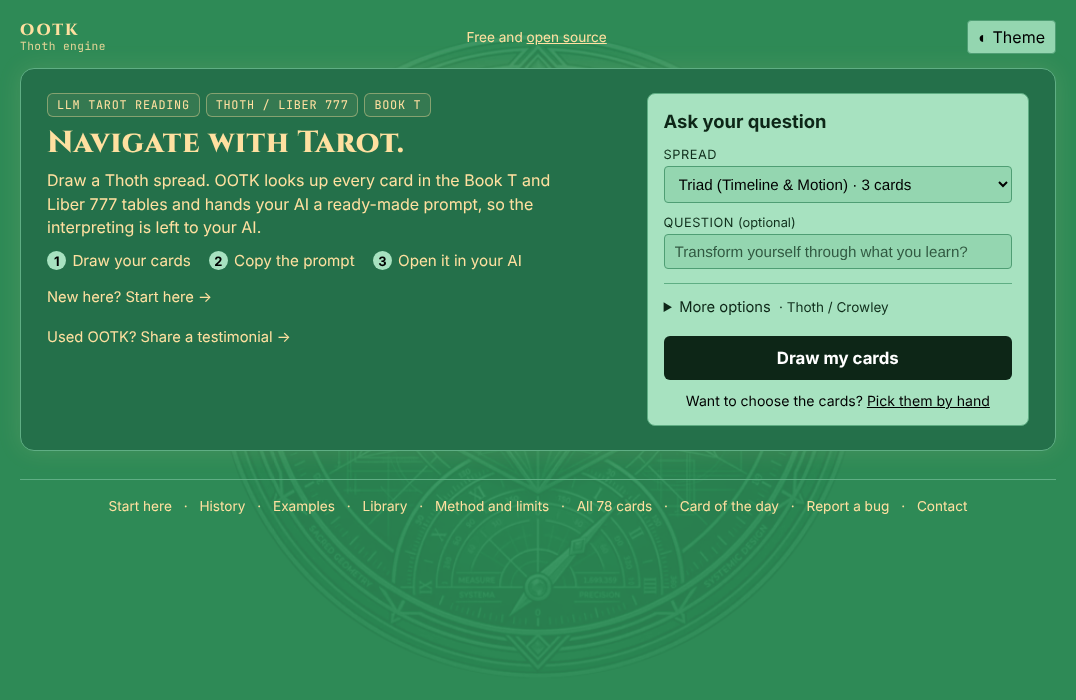
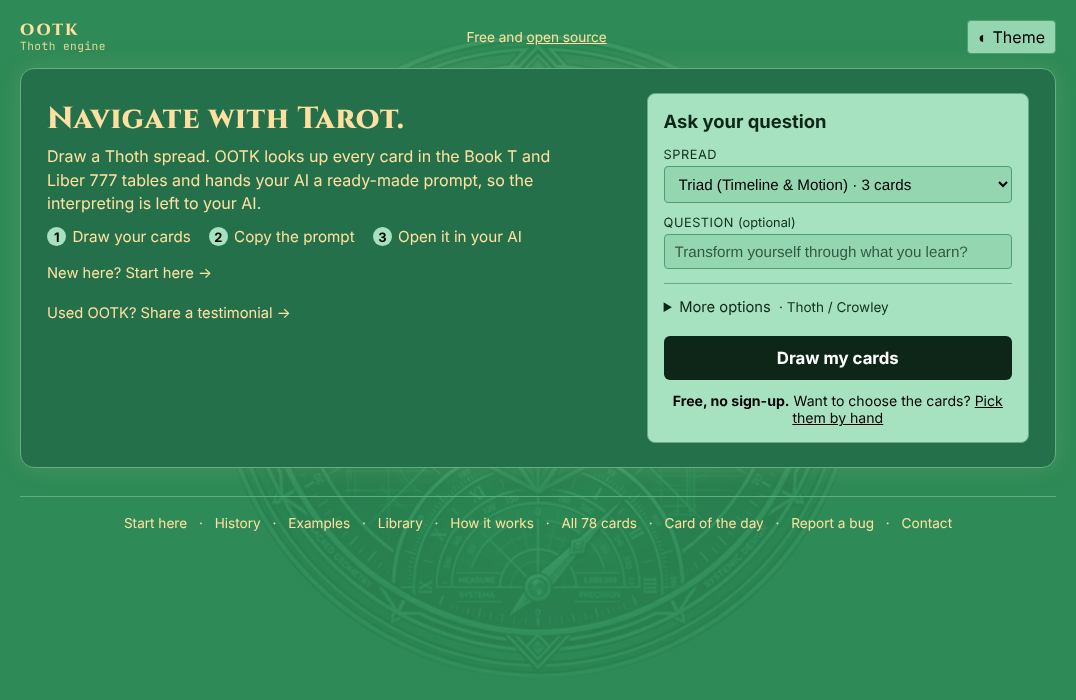
Warmer wording, a clear price and a lighter report header
Say once that the AI interprets, not seven times; Method opens in the
owner's voice; 'Method and limits' becomes 'How it works'. Front page
says 'Free, no sign-up.' by the button and drops the jargon chips.
Report header keeps Copy and open as the one big button, with copy and
save options under More and the attach-as-file tip on one line.

Claude-Session: https://claude.ai/code/session_01LUs8KwBZZ39rW2dYkRJ5Sp

Changed region(s): [[0.0307, 0.12, 0.5214, 0.51], [0.0, 0.57, 0.9814, 0.69], [0.092, 0.72, 0.8894, 0.78]]

diff --git a/templates/report.html b/templates/report.html
@@ -50,8 +50,8 @@
         details.menu { position: relative; }
         details.menu > summary { list-style: none; }
         details.menu > summary::-webkit-details-marker { display: none; }
-        .menu-list { position: absolute; z-index: 30; top: calc(100% + 4px); right: 0; min-width: 150px; background: var(--panel); border: 1px solid var(--line); border-radius: 8px; box-shadow: 0 6px 18px rgba(0,0,0,0.2); padding: 4px; display: flex; flex-direction: column; }
-        .menu-list button { background: none; border: none; color: var(--text); text-align: left; padding: 9px 12px; border-radius: 6px; cursor: pointer; font: inherit; font-size: 0.9em; }
+        .menu-list { position: absolute; z-index: 30; top: calc(100% + 4px); right: 0; min-width: 190px; background: var(--panel); border: 1px solid var(--line); border-radius: 8px; box-shadow: 0 6px 18px rgba(0,0,0,0.2); padding: 4px; display: flex; flex-direction: column; }
+        .menu-list button { background: none; border: none; color: var(--text); text-align: left; white-space: nowrap; padding: 9px 12px; border-radius: 6px; cursor: pointer; font: inherit; font-size: 0.9em; }
         .menu-list button:hover { background: var(--panel-2); }
         details.types > summary { list-style: none; display: inline-block; }
         details.types > summary::-webkit-details-marker { display: none; }
@@ -80,8 +80,8 @@
         .report-actions .send-llm { flex-direction: column; }
         .report-actions .send-llm .btn { flex: 1; padding: 11px 16px; font-size: 1em; }
         .action-row { display: flex; flex-wrap: wrap; gap: 8px; margin-top: 10px; }
-        .md-tip { margin-top: 14px; padding-top: 12px; border-top: 1px solid var(--line); }
-        .md-tip p { margin: 0 0 10px; font-size: 0.9em; }
+        .md-tip { margin: 12px 0 0; font-size: 0.9em; }
+        .link-btn { background: none; border: none; padding: 0; color: var(--accent); cursor: pointer; text-decoration: underline; font: inherit; }
         .btn-small { background: var(--panel-2); color: var(--text); border: 1px solid var(--control); padding: 6px 10px; border-radius: 4px; cursor: pointer; white-space: nowrap; font: inherit; }
         .btn-small:hover { border-color: var(--accent); }
         .steps-done { list-style: none; display: flex; flex-wrap: wrap; gap: 6px 18px; margin: 0; padding: 0; font-size: 0.9em; counter-reset: step; }
@@ -298,21 +298,18 @@
             <p class="form-lede">Copy and open copies the prompt and opens your AI in a new tab. Paste it in there.</p>
             {% with prompt_source = "promptText", llm_note_elsewhere = true %}{% include "_send_to_llm.html" %}{% endwith %}
             <div class="action-row">
-                <button class="btn secondary" type="button" id="copyPromptTop" onclick="copyText(document.getElementById('promptText').textContent, this, 'promptText')" title="Copy the prompt, then paste it into your AI">Copy prompt</button>
                 <details class="menu">
-                    <summary class="btn secondary">Save &#9662;</summary>
+                    <summary class="btn secondary">More &#9662;</summary>
                     <div class="menu-list">
-                        <button type="button" onclick="window.print()">PDF (print)</button>
-                        <button type="button" data-download-md>Markdown</button>
-                        <button type="button" data-download-json{% if json_url %} data-json-url="{{ json_url }}"{% endif %}>JSON</button>
+                        <button type="button" id="copyPromptTop" onclick="copyText(document.getElementById('promptText').textContent, this, 'promptText')" title="Copy the prompt, then paste it into your AI">Copy prompt</button>
+                        <button type="button" data-download-md>Save as Markdown (.md)</button>
+                        <button type="button" onclick="window.print()">Save as PDF (print)</button>
+                        <button type="button" data-download-json{% if json_url %} data-json-url="{{ json_url }}"{% endif %}>Save as JSON</button>
                     </div>
                 </details>
                 <a href="{{ '/pick' if settings.get('draw_mode') == 'manual' else '/' }}" class="btn secondary" title="Back to settings">&larr; New reading</a>
             </div>
-            <div class="md-tip" id="mdTip">
-                <p><strong>Our tip: attach it as a file.</strong> Save the prompt as a Markdown file, then in your AI chat (Gemini, Claude, ChatGPT and others) press <strong>+</strong>, add the file and send. A file gets round the limits many AI chats put on pasted text, so it suits long readings and Gemini.</p>
-                <button class="btn secondary" type="button" data-download-md title="Download the prompt as ootk_report.md">Save prompt as Markdown (.md)</button>
-            </div>
+            <p class="md-tip" id="mdTip">Long prompt? <button type="button" class="link-btn" data-download-md title="Download the prompt as ootk_report.md">Save it as a file</button> and attach it in your AI with <strong>+</strong>.</p>
         </div>
         <div class="band-more">
             <ol class="steps-done no-print" aria-label="Your progress">
@@ -320,7 +317,7 @@
                 <li class="here">Copy the prompt</li>
                 <li>Paste or attach it in your AI</li>
             </ol>
-            <p class="tagline no-print">Your AI writes the interpretation; this page only shows what the prompt contains. <a href="#promptSection" onclick="openSection('promptSection')">See the prompt</a></p>
+            <p class="tagline no-print"><a href="#promptSection" onclick="openSection('promptSection')">See the prompt</a></p>
             <p class="tagline left-out no-print">{% include "_llm_left_out.html" %}</p>
         </div>
     </section>

diff --git a/templates/start.html b/templates/start.html
@@ -31,12 +31,11 @@
 {% block content %}
         <details class="panel fold">
             <summary class="fold-toggle"><h2 id="strengthsTitle">What OOTK does best</h2></summary>
-            <p>Its strengths are objective analysis and clear conceptual models.</p>
+            <p>It takes care of the bookkeeping, so you can spend your time on the cards.</p>
             <ul>
-                <li><strong>Objective analysis.</strong> Each card's dignities, aspects and correspondences come from the Book&nbsp;T and Liber&nbsp;777 tables and are scored the same way every time, so the same seed always gives the same figures.</li>
-                <li><strong>Clear conceptual models.</strong> The heap, the wheel of houses and signs, and the Cube of Space show where each card sits and how the cards link.</li>
+                <li><strong>Careful lookups.</strong> Each card's dignities, aspects and correspondences come from the Book&nbsp;T and Liber&nbsp;777 tables and are scored the same way every time, so the same seed always gives the same figures.</li>
+                <li><strong>Pictures of the reading.</strong> The heap, the wheel of houses and signs, and the Cube of Space show where each card sits and how the cards link.</li>
             </ul>
-            <p>The meaning is left to your AI.</p>
         </details>
 
         <details class="panel fold" open>
@@ -44,7 +43,7 @@
             <ol class="path">
                 <li>
                     <h3>See what you get</h3>
-                    <p>A reading here is not an interpretation. It is a list of cards, their correspondences and how they interact, written as a prompt for your AI. The sample below is a whole Opening of the Key.</p>
+                    <p>Here is what a reading looks like: every card, its correspondences and how the cards speak to each other, written up for your AI. The sample below is a whole Opening of the Key.</p>
                     <div class="actions">{% if sample %}<a class="btn secondary" href="#sample">See the sample</a> {% endif %}<a class="btn secondary" href="/examples">More examples</a></div>
                 </li>
                 <li>
@@ -63,8 +62,8 @@
                 </li>
                 <li>
                     <h3>Learn what the numbers mean</h3>
-                    <p>The library explains each term in the report, and the method page shows how it is all worked out and where it falls short.</p>
-                    <div class="actions"><a class="btn secondary" href="/library">Library</a> <a class="btn secondary" href="/method">Method and limits</a></div>
+                    <p>The library explains each term in the report, and How it works shows how it is all worked out and what to keep in mind.</p>
+                    <div class="actions"><a class="btn secondary" href="/library">Library</a> <a class="btn secondary" href="/method">How it works</a></div>
                 </li>
             </ol>
         </details>

diff --git a/templates/method.html b/templates/method.html
@@ -1,5 +1,5 @@
 {% extends "_guide_base.html" %}
-{% set page_title = "Method and limits" %}
+{% set page_title = "How it works" %}
 {% set page_description = "How LLM Tarot Reading draws the cards and works out their correspondences, what it can't do, what it stores and what it is for." %}
 {% set tagline = "How a reading is made, what it can't do, and what it is for." %}
 {% set active = "/method" %}
@@ -20,9 +20,9 @@
 {% block content %}
         <section class="panel" aria-labelledby="useTitle">
             <h2 id="useTitle">What it is for</h2>
-            <p>This site is a calculator and a prompt writer. It draws tarot cards, looks up their traditional correspondences, scores how they interact, and writes all of that up as a prompt. <strong>It does not interpret the cards itself.</strong> Your AI does that, from the prompt.</p>
-            <p>It is meant for studying the Thoth deck and its correspondences, for reflection, and for giving an AI the same careful groundwork every time instead of a bare list of card names.</p>
-            <p>It is not meant for decisions about health, money, law or safety, and it does not predict the future. Treat any reading, and anything an AI says about it, as something to think with rather than advice.</p>
+            <p>I made this to do the slow part of a Thoth reading for me: shuffling, looking up every correspondence and scoring how the cards interact. It writes all of that up as a prompt, and your AI does the interpreting.</p>
+            <p>It is for studying the Thoth deck and its correspondences, for reflection, and for giving an AI the same careful groundwork every time instead of a bare list of card names.</p>
+            <p>Please don&rsquo;t use it for decisions about health, money, law or safety. A reading, and whatever an AI makes of it, is something to think with, not advice or a forecast.</p>
         </section>
 
         <section class="panel" aria-labelledby="howTitle">
@@ -57,7 +57,7 @@
         </section>
 
         <section class="panel" aria-labelledby="limitsTitle">
-            <h2 id="limitsTitle">Limitations</h2>
+            <h2 id="limitsTitle">Worth knowing</h2>
             <ul>
                 <li><strong>The interpretation is your AI&rsquo;s, not this site&rsquo;s.</strong> AIs can be wrong, invent details, or answer the same prompt differently each time. Nothing here checks what they say.</li>
                 <li><strong>One tradition among several.</strong> Card attributions differ between systems, which is why there are three to choose from. The dignity scores (+2, +1, &minus;2, 0) and the aspect orbs are this project&rsquo;s reading of Book T and astrological practice, not the only one.</li>

diff --git a/templates/index.html b/templates/index.html
@@ -70,7 +70,6 @@
     <!-- Banner: what it is, for whom and how on the left; the settings for your own reading on the right. -->
     <section class="band" aria-labelledby="pageTitle">
         <div class="band-text">
-            <p class="chips"><span>LLM Tarot Reading</span><span>Thoth / Liber 777</span><span>Book T</span></p>
             <h1 id="pageTitle">Navigate with Tarot.</h1>
             <p class="tagline">Draw a Thoth spread. OOTK looks up every card in the Book&nbsp;T and Liber&nbsp;777 tables and hands your AI a ready-made prompt, so the interpreting is left to your AI.</p>
             <ol class="steps" aria-label="How it works">
@@ -86,7 +85,7 @@
 
 {% include "_settings_fields.html" %}
                 <button type="submit" class="btn-submit">Draw my cards</button>
-                <p class="mode-link">Want to choose the cards? <a href="/pick" id="modeSwitch">Pick them by hand</a></p>
+                <p class="mode-link"><strong>Free, no sign-up.</strong> Want to choose the cards? <a href="/pick" id="modeSwitch">Pick them by hand</a></p>
             </section>
         </form>
         <!-- Below the settings on a phone, so the draw button shows on the first screen. -->

diff --git a/templates/landing.html b/templates/landing.html
@@ -11,7 +11,7 @@
                 <li><strong>Copy the prompt.</strong> The report lists every card&rsquo;s correspondences, dignities and aspects, written up for an AI.</li>
                 <li><strong>Open it in your AI.</strong> Paste it into ChatGPT, Claude, Gemini or another model, which writes the interpretation.</li>
             </ol>
-            <p class="muted">Free, with no sign-up. OOTK does not interpret the cards itself; it gives your AI the facts to work from.</p>
+            <p class="muted">Free, with no sign-up. Your AI brings the interpretation; OOTK makes sure it starts from the right facts.</p>
             <div class="actions">
                 <a class="btn" href="/?spread={{ page.spread }}#readingForm">Draw my cards</a>
                 <a class="btn secondary" href="/examples">See example readings</a>

diff --git a/templates/_guide_base.html b/templates/_guide_base.html
@@ -48,7 +48,7 @@
         <h1>{{ page_title }}</h1>
         <p class="tagline">{{ tagline }}</p>
         <nav class="guide-nav" aria-label="Guide">
-            {% for href, label in [("/start", "Start here"), ("/history", "History"), ("/examples", "Examples"), ("/library", "Library"), ("/maps", "Card maps"), ("/method", "Method and limits")] %}
+            {% for href, label in [("/start", "Start here"), ("/history", "History"), ("/examples", "Examples"), ("/library", "Library"), ("/maps", "Card maps"), ("/method", "How it works")] %}
             <a href="{{ href }}"{% if href == active %} aria-current="page"{% endif %}>{{ label }}</a>
             {% endfor %}
             <a href="/#readingForm" class="guide-draw">Draw a reading</a>

diff --git a/templates/_site_footer.html b/templates/_site_footer.html
@@ -11,7 +11,7 @@
     <a href="/history">History</a> ·
     <a href="/examples">Examples</a> ·
     <a href="/library">Library</a> ·
-    <a href="/method">Method and limits</a> ·
+    <a href="/method">How it works</a> ·
     <a href="/cards">All 78 cards</a> ·
     <a href="/today">Card of the day</a> ·
     <a href="{{ bug_report_url }}" target="_blank" rel="noopener">Report a bug</a> ·

diff --git a/src/ootk/web.py b/src/ootk/web.py
@@ -284,8 +284,8 @@ templates = Jinja2Templates(directory=str(BASE_DIR / "templates"))
 REPO_URL = "https://github.com/hampshirecottage-ai/ootk-thoth-engine"
 BUG_REPORT_URL = f"{REPO_URL}/issues/new?template=bug_report.yml"
 CONTACT_URL = f"{REPO_URL}/discussions"
-SITE_DESCRIPTION = ("Draw a Thoth tarot spread and get its Golden Dawn dignities, decans and "
-                    "Liber 777 correspondences calculated, as a prompt for your LLM to interpret.")
+SITE_DESCRIPTION = ("Draw a Thoth tarot spread. OOTK works out its Golden Dawn dignities, decans "
+                    "and Liber 777 correspondences and writes them up for your AI to read with you.")
 # The spreads from first steps to the full Opening of the Key: (level, name, spread keys, what
 # it teaches). Start here lists them and the spread picker groups its options the same way.
 SPREAD_STAGES = [
@@ -322,7 +322,7 @@ LANDING_PAGES = {
         "tagline": "Your AI interprets the cards. OOTK gives it the facts to work from.",
         "description": "An AI tarot reading with the correspondences done properly: draw your "
                        "cards, copy the prompt into ChatGPT, Claude or Gemini.",
-        "intro": "Chatbots guess at tarot correspondences. OOTK looks every card up in the Golden "
+        "intro": "Chatbots are good with meaning but shaky on correspondences. OOTK looks every card up in the Golden "
                  "Dawn and Liber 777 tables, scores the dignities between them, and writes it all "
                  "into one prompt you paste into ChatGPT, Claude, Gemini or any other AI.",
         "spread": "3"},
@@ -719,7 +719,6 @@ def sample_summary(r, settings):
     if on_cube:
         verb = "sits" if len(on_cube) == 1 else "sit"
         second.append(f"{_count(len(on_cube)).capitalize()} of the heap's cards {verb} on the Cube of Space.")
-    second.append("What it means is left to your AI.")
     return [first, " ".join(second)]
 
 

diff --git a/tests/test_app_and_engine.py b/tests/test_app_and_engine.py
@@ -457,7 +457,7 @@ def test_guide_pages_render_and_link_each_other(client, monkeypatch):
     monkeypatch.setattr(app_module, "_examples_cache", {})
     for path, heading in [("/start", "Your first reading, step by step"), ("/history", "The Golden Dawn"),
                           ("/examples", "Open the report"),
-                          ("/library", "Every spread"), ("/maps", "Pick a card"), ("/method", "Limitations")]:
+                          ("/library", "Every spread"), ("/maps", "Pick a card"), ("/method", "Worth knowing")]:
         page = client.get(path)
         assert page.status_code == 200 and heading in page.text
         assert f'<a href="{path}" aria-current="page">' in page.text      # nav marks this page
@@ -1960,7 +1960,7 @@ def test_sample_summary_states_facts_not_meanings():
     assert "1 Fire, 1 Water and 1 Earth" in second
     assert "Of the 2 scored pairs, 1 is friendly and 1 is contrary, a net score of -1." in second
     assert "One of the heap's cards sits on the Cube of Space." in second
-    assert second.endswith("What it means is left to your AI.")
+    assert second.endswith("sits on the Cube of Space.")
 
 
 def test_start_page_sample_is_the_full_opening_of_the_key():

diff --git a/README.md b/README.md
@@ -1,8 +1,8 @@
 # OOTK Thoth Engine
 
-**OOTK writes the instructions an LLM needs to interpret a tarot reading.** It draws a Thoth spread from a seed you can repeat, works out its elemental dignities, aspects and Liber 777 correspondences (up to the full Opening of the Key), and writes them up as a prompt you paste into an LLM. The prompt asks the LLM to relate the findings to your question and name the outcome they lean toward, as a likely possibility rather than a certainty. OOTK does not interpret the cards itself.
+**OOTK does the table work of a Thoth tarot reading, so you and your AI can get straight to the meaning.** It draws a spread from a seed you can repeat, works out its elemental dignities, aspects and Liber 777 correspondences (up to the full Opening of the Key), and writes them up as one prompt. Your AI relates them to your question and says where the cards lean, as a possibility rather than a certainty.
 
-**Its strengths are objective analysis and clear conceptual models.** Every dignity, aspect and correspondence is looked up from the Book T and Liber 777 tables and scored the same way each time, and the heap, the wheel of houses and signs, and the Cube of Space show where each card sits and how the cards link. The meaning is left to the LLM.
+**What it is good at: getting the details right, the same way every time.** Every dignity, aspect and correspondence comes from the Book T and Liber 777 tables, and the heap, the wheel of houses and signs, and the Cube of Space let you see where each card sits and how the cards link.
 
 **Try it online: [tarotthoth.com](https://tarotthoth.com)** (free hosting, so the first visit after a quiet spell takes about a minute to wake up). Card images there are Pamela Colman Smith's public-domain 1909 Rider-Waite-Smith art, because the Thoth paintings are copyrighted.
 
